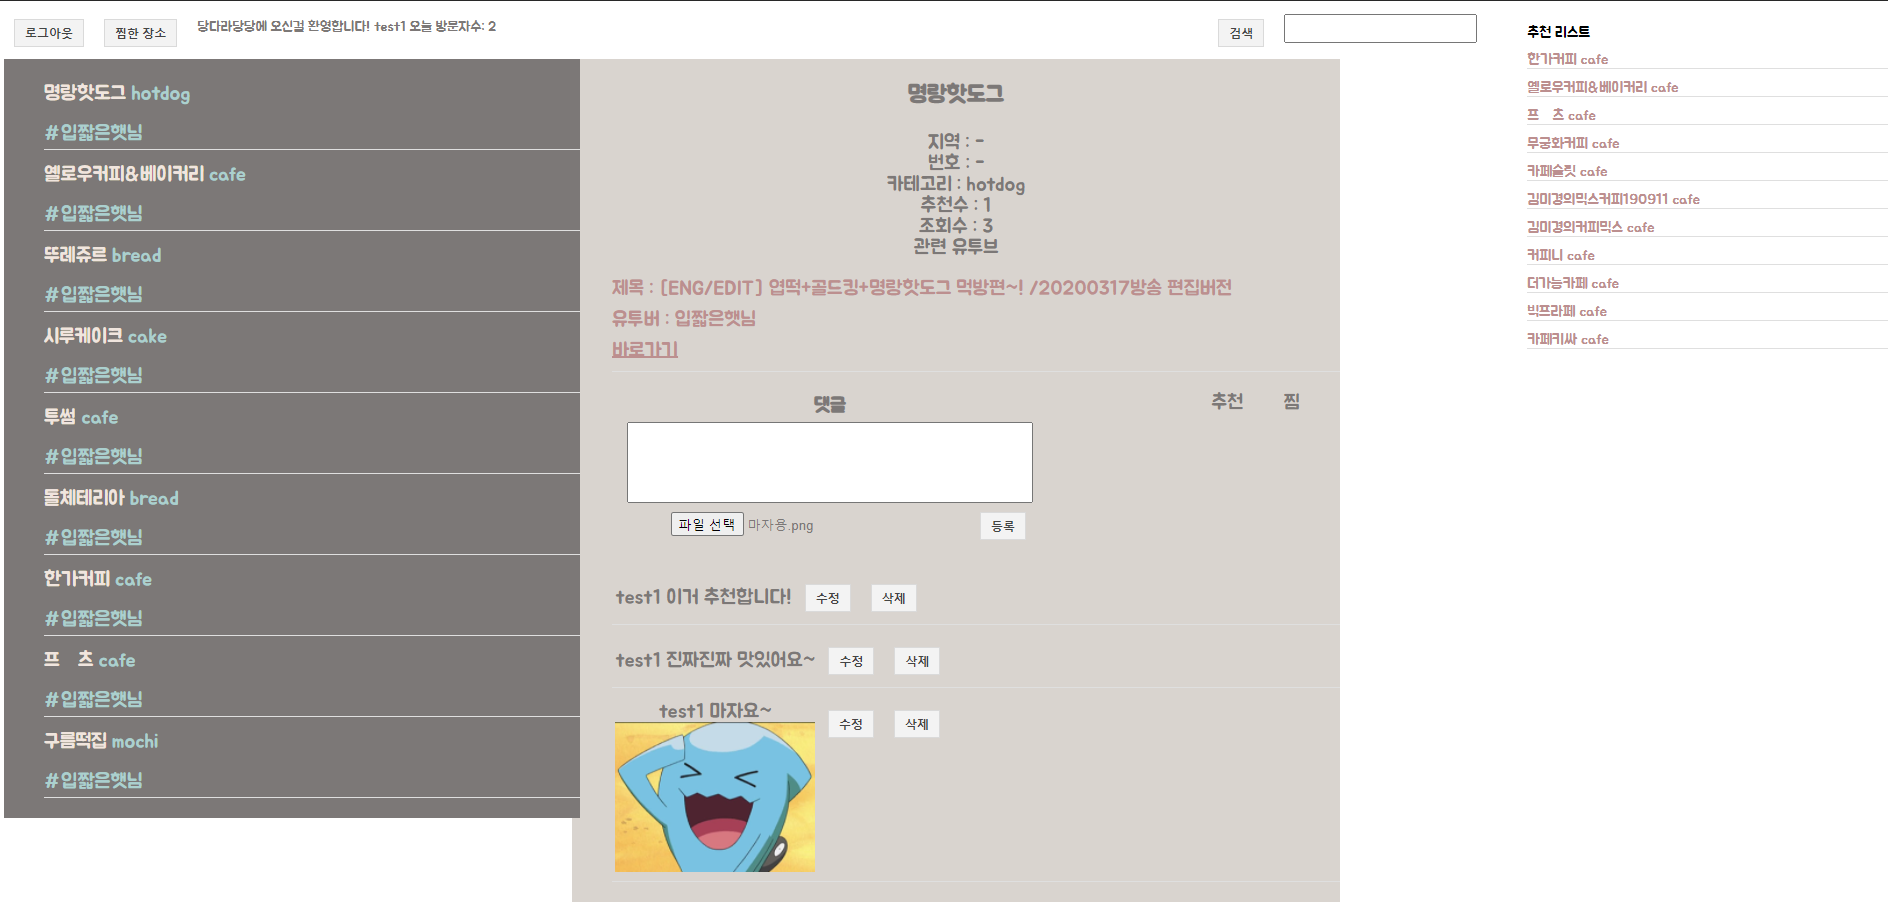
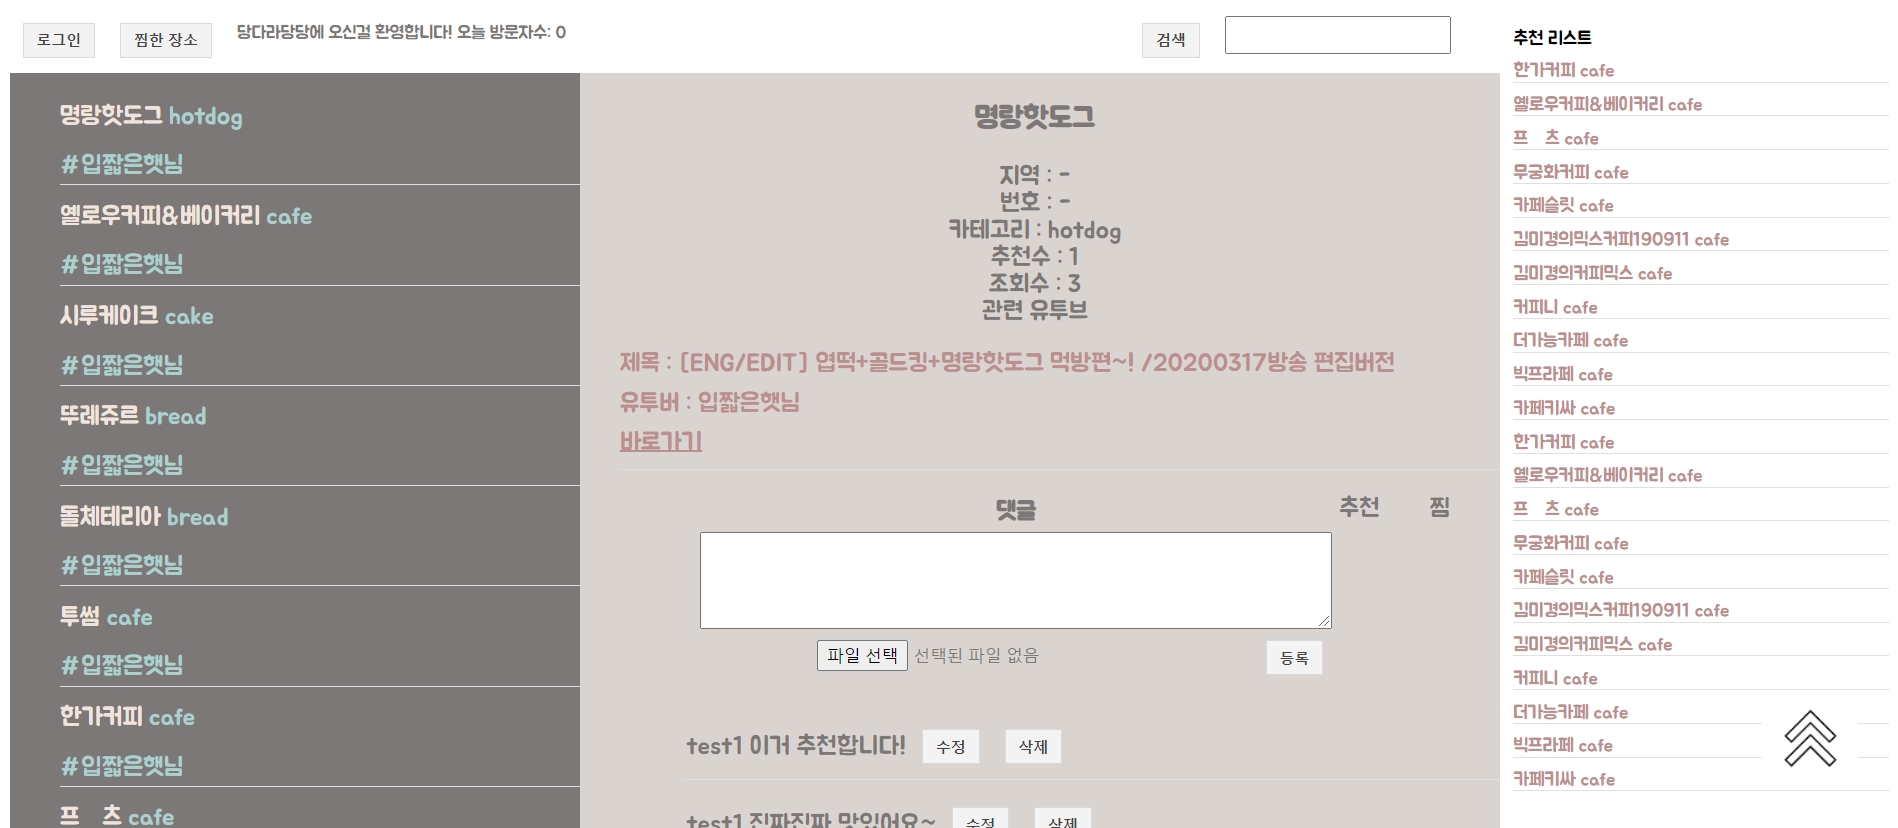
스크롤바 추가

Changed region(s): [[0.0, 0.0, 0.9062, 1.0], [0.9375, 0.8454, 0.9688, 0.936], [0.2812, 0.151, 0.3125, 0.1812]]

diff --git a/web/vue/src/components/Home.vue b/web/vue/src/components/Home.vue
@@ -23,12 +23,17 @@
     </div>
 
     <div class="search">
-      <input v-model="input" style="margin: 5px 10px;padding: 5px 10px;">
-      <button @click="setMsg">검색</button>
+      <input v-model="input" style="margin: 5px 10px;padding: 5px 10px;" @keyup.enter="getYoutube">
+      <button @click="getYoutube">검색</button>
     </div>
-
   </div>
+  <!-- 유투브 -->
   <youtube-list :msg="input" ref="list"></youtube-list>
+
+  <!-- 하단 스크롤 바 -->
+  <div class="scoll-menu">
+    <img src="../assets/images/scroll_up.png" v-on:click="scrollUp"/>
+  </div>
 </template>
 
 <script>
@@ -44,14 +49,14 @@ export default {
     url: 'http://localhost:9000/api/v1/history',
     input: '', // 입력하는 값
     msg: '',   // 실질적으로 넘어가는 값
-    views : '0', // 하루 접속량
+    views : '0', // 하루 접속량,
   }),
   created() {
     this.email = this.$cookies.get('email');
     this.getLoginHistory();
   },
   methods: {
-    setMsg(){
+    getYoutube(){
       this.$refs.list.getYoutube();
     },
     getLoginHistory(){
@@ -63,6 +68,9 @@ export default {
           .catch(() => {
 
           })
+    },
+    scrollUp(){
+      window.scrollTo(0,0);
     }
   }
 }
@@ -106,5 +114,15 @@ button:active {
 .right-banner{
   float:right;
   width: 20%;
+}
+
+.scoll-menu{
+  position: fixed;
+  right:10px;
+  bottom:10px;
+  height:100px;
+  width:100px;
+  text-decoration: none;
+
 }
 </style>

diff --git a/web/vue/src/components/Review.vue b/web/vue/src/components/Review.vue
@@ -1,6 +1,6 @@
 <!-- 댓글창 -->
 <template>
-  <div>
+  <div style="margin-left: 50px;">
     <table style="margin-left: 50px;">
       <thead>
       <tr>
@@ -9,7 +9,7 @@
       </thead>
       <tbody>
       <div>
-        <td><textarea type="text" rows="5" style="width:400px; resize: none;" v-model="this.input"/></td>
+        <td><textarea type="text" rows="5" style="width:500px;" v-model="this.input"/></td>
       </div>
       <button class="review-register" @click="uploadFile">등록</button>
       <input name="image" id="image" type="file"/>
@@ -40,7 +40,7 @@
 
         <div v-if="review.modify">
           <div>
-            <textarea type="text" rows="5" style="width:500px; resize: none;" v-model="review.input"/>
+            <textarea type="text" rows="5" v-model="review.input"/>
           </div>
           <div style="margin-left: 0px;">
             <button @click="modifyReview(review.id, review);onToggle(review);">수정</button>

diff --git a/web/vue/src/components/Search.vue b/web/vue/src/components/Search.vue
@@ -2,7 +2,7 @@
 <template>
   <ul style="list-style: none; float:left;">
     <li v-for="dessert in this.desserts"
-        v-bind:key="dessert" @click="getDessert()">
+        v-bind:key="dessert" @click="getDessert">
       <div v-on:click="selectDessert(dessert.subCategory)">{{ dessert.included }}</div>
     </li>
   </ul>
@@ -40,7 +40,8 @@ export default {
     },
     selectDessert(subCategory) {
       this.$emit('click', subCategory);
-    }
+    },
+
   }
 }
 </script>

diff --git a/web/vue/src/components/YoutubeList.vue b/web/vue/src/components/YoutubeList.vue
@@ -144,9 +144,9 @@ name {
 
 
 .youtube-list-right {
-  left : 30%;
-  width: 40%;
   position: absolute;
+  left : 30%;
+  width: 49%;
   background: #D9D4CF; /*#ABD0CE #F0E5DE #D9D4CF; #7C7877;*/
   text-align: center;
   margin-right: 20px;

diff --git a/src/main/java/com/example/yhwasongtest/place/repository/PlaceRepository.java b/src/main/java/com/example/yhwasongtest/place/repository/PlaceRepository.java
@@ -19,7 +19,7 @@ public interface PlaceRepository extends JpaRepository<PlaceModel, Long> {
     List<PlaceModel> findByNameContaining(String name);
 
     // 기본 목록
-    @Query(value = "SELECT * FROM test.place p WHERE p.sub_category != '디저트' And p.view > 1 Order By p.view Desc;", nativeQuery = true)
+    @Query(value = "SELECT * FROM test.place p WHERE p.sub_category != '디저트' And p.view >= 1 Order By p.view Desc;", nativeQuery = true)
     List<PlaceModel> findByViewAndSubCategory();
 
     // 영어로 된 place 는 지운다.

diff --git a/src/main/java/com/example/yhwasongtest/place/service/RecommendService.java b/src/main/java/com/example/yhwasongtest/place/service/RecommendService.java
@@ -78,7 +78,7 @@ public class RecommendService {
 
         List<PlaceModel> result = new ArrayList<PlaceModel>();
         for(PointDto p : maps){
-            if(result.size() > 10) break;
+            if(result.size() > 20) break;
 
             List<PlaceModel> placeModel = placeRepository.findBySubCategoryOrderByRecommendDecsViewDesc(p.category);
             result.addAll(placeModel.stream().filter(place -> !placeModels.contains(place)).collect(Collectors.toList()));
